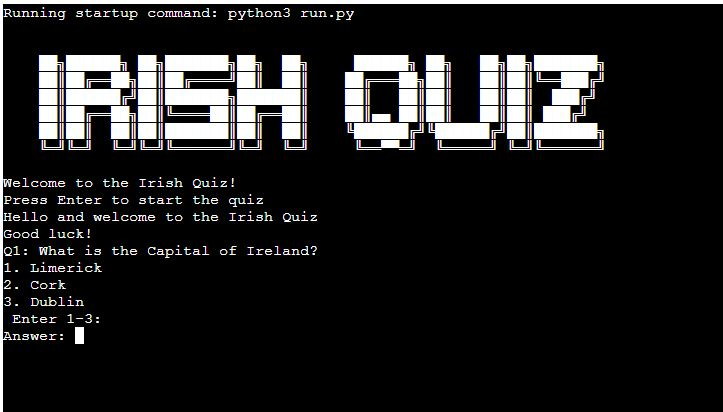
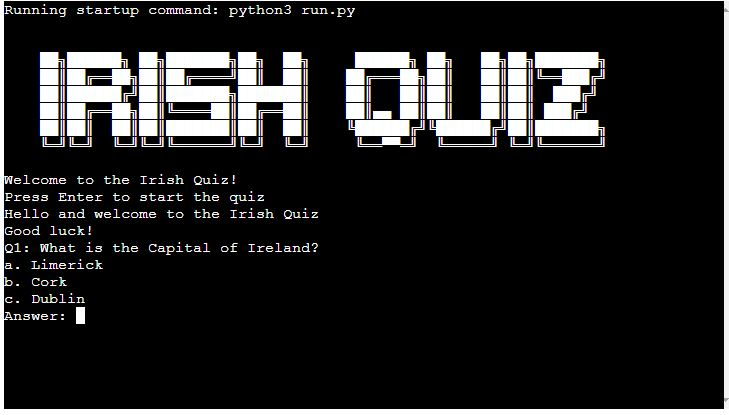
Fix photos and some text in readme to match changes in run.py

diff --git a/README.md b/README.md
@@ -12,9 +12,9 @@
 
 ![Good Luck Message](assets/screenshots/good_luck_message.JPG)
 
-- Once the game begins the player is presented with a series of mulitiple choice questions. To answer a question the player must type the number corresponding with what they think is the correct answer (1,2,3) and hit enter.
+- Once the game begins the player is presented with a series of mulitiple choice questions. To answer a question the player must type the letter or number corresponding with what they think is the correct answer and hit enter.
 
-![Question](assets/screenshots/questions.JPG) 
+![Question](assets/screenshots/question.JPG) 
 
 - If the player answers the question correctly they will get a response of "Correct!" and their score will increase by one.
 
@@ -24,11 +24,13 @@
 
 ![Incorrect Answer](assets/screenshots/incorrect_answer.JPG) 
 
-- If the player tries to type the answer in or selects a number other than 1-3 they will get a response "Please enter a number between 1 and 3" and the question will repeat itself. 
+- If the player tries to type the answer in or selects a letter or number other than a, b, c, or 1, 2, 3, they will get a response "Please enter 'a', 'b', 'c' or '1', '2', '3'" and the question will repeat itself. 
 
-![Wrong Format Error](assets/screenshots/wrong_format_error.JPG)
+![Incorrect Selection](assets/screenshots/incorrect_selection.JPG)
 
-- The game will continue with the next question until you have completed all ten questions. 
+- The game will continue with the next question until you have completed all ten questions and a final score is given. 
+
+![Final Score](assets/screenshots/final_score.JPG)
 
 - After the quiz is complete the player will be asked if they want to play again. They can only choose either yes or no. Yes and the games goes back to question one with the score reset. If no the game will goes back to the welcome screen. If the player types anything else in a message will appear to say "Please enter yes or no"
 
